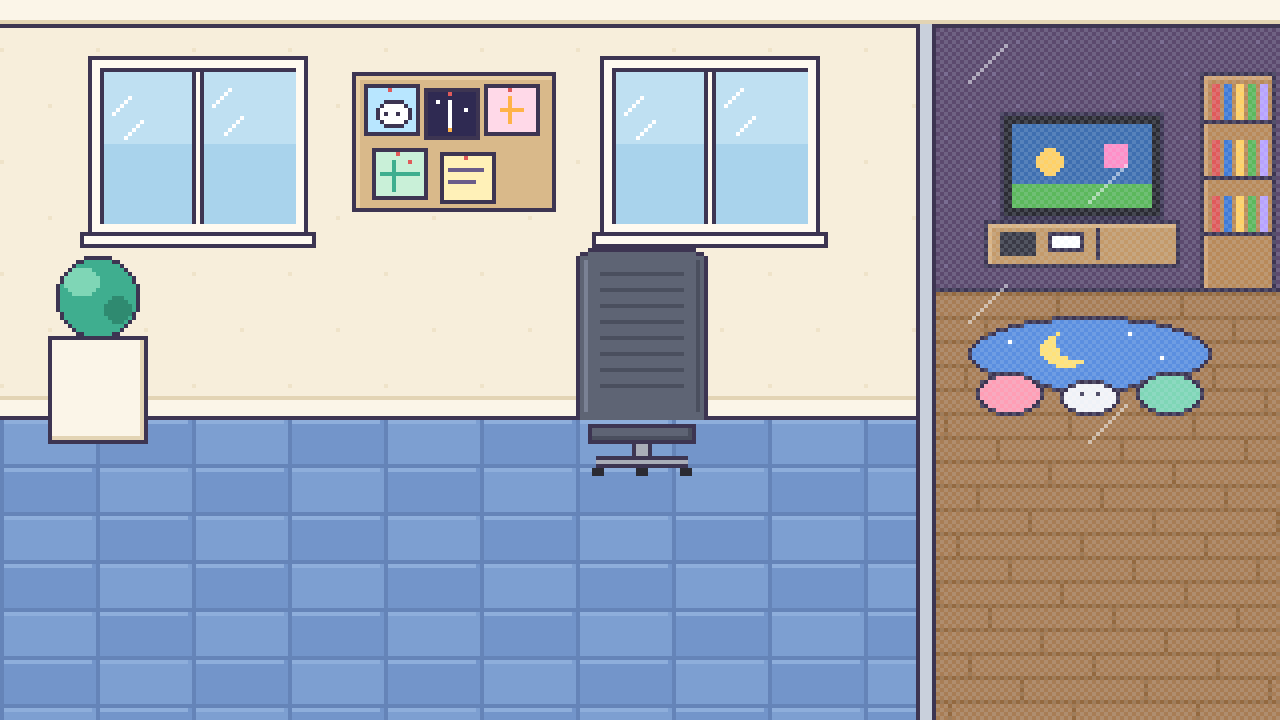
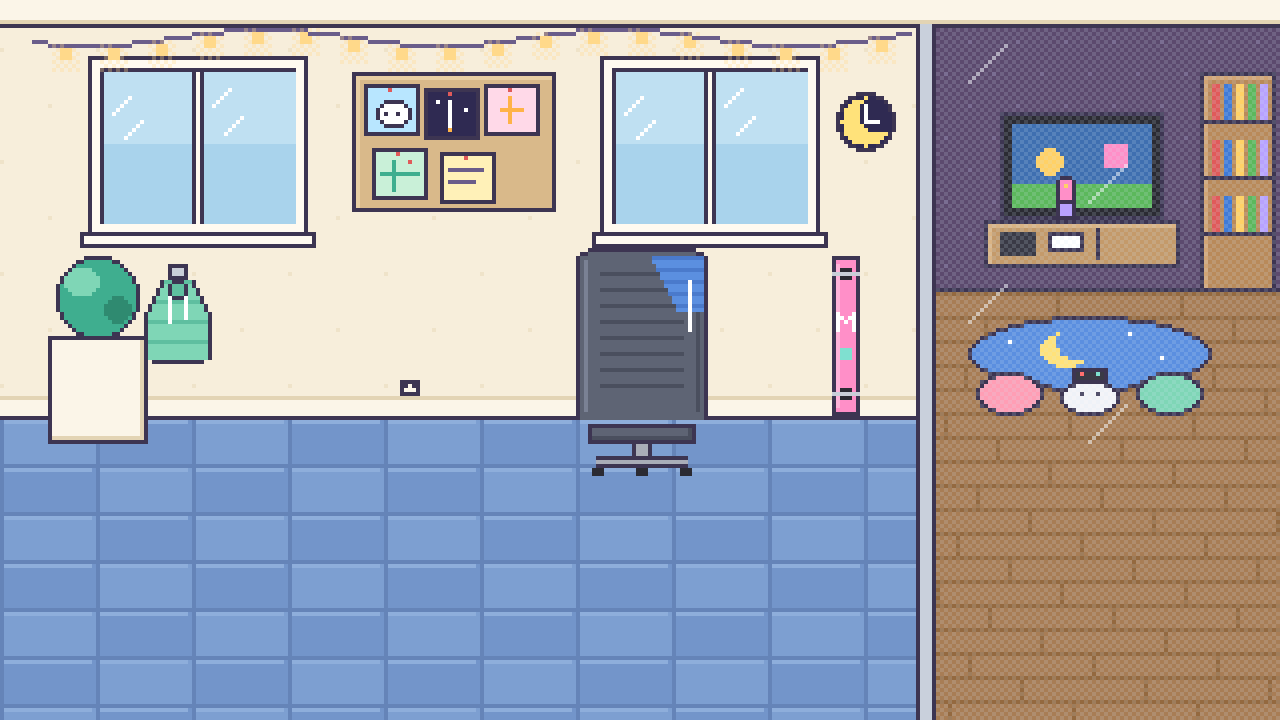
More close-up details in both bosses' offices; no printer in Margaux's office
Claude-Session: https://claude.ai/code/session_01HK9rM49NQkrfrGgA2eeo1G

diff --git a/tools/draw_meet.py b/tools/draw_meet.py
@@ -85,9 +85,24 @@ def stitchlight():
         if w > 12: b.hl(x + 2, x + w - 4, y + h - 3, hx('ffffff'))
     for x in (124, 140, 156, 172, 188): b.px(x + 3, 16, hx('d64545'))
     # left: printer on a white cabinet, the camera on its tripod, the tall vase of white lilies
-    b.box(14, 82, 40, FLOOR + 6, hx('ffffff'), OL, None, hx('e6e6ee')); b.hl(17, 37, 92, OL); b.hl(25, 31, 87, hx('b9b9c6')); b.hl(25, 31, 97, hx('b9b9c6'))
-    b.box(15, 70, 39, 81, hx('e9e9f0'), OL, hx('ffffff')); b.rect(18, 66, 36, 70, hx('ffffff')); b.box(18, 66, 36, 70, hx('ffffff'), OL); b.rect(20, 74, 34, 76, hx('3a3a46')); b.px(36, 73, hx('7fd18a'))
-    for k in range(3): b.hl(21, 33, 67 + k, hx('d7d7e0')) if k == 1 else None
+    # a dress form by the glass wall, a half-finished dress pinned to it, a tape measure round its neck
+    DX = 27
+    b.box(DX - 7, FLOOR + 8, DX + 7, FLOOR + 10, hx('3a3a46'), OL); b.vl(DX, 92, FLOOR + 7, hx('8a6a4a')); b.vl(DX + 1, 92, FLOOR + 7, OL)
+    b.rect(DX - 1, 62, DX + 1, 64, hx('8a6a4a')); b.ellipse(DX, 61, 2, 1, hx('8a6a4a'), OL)
+    for i in range(28):                                  # the torso, with a waist
+        y = 65 + i; half = [7, 8, 8, 8, 8, 7, 7, 6, 6, 5, 5, 5, 6, 6, 7, 7, 8, 8, 9, 9, 10, 10, 11, 11, 12, 12, 12, 12][i]
+        c = hx('f1e4cc') if i < 9 else hx('f4a9b8') if i < 13 else hx('f7bfc9')
+        b.hl(DX - half, DX + half, y, c); b.px(DX - half - 1, y, OL); b.px(DX + half + 1, y, OL)
+        if i >= 13 and i % 4 == 1: b.px(DX - half + 2 + (i % 3), y, hx('e58a9c')); b.px(DX + half - 3, y, hx('e58a9c'))
+    b.hl(DX - 12, DX + 12, 93, OL)
+    b.hl(DX - 8, DX + 8, 74, hx('e58a9c')); b.hl(DX - 6, DX + 6, 75, hx('fbe0e5'))          # the bodice's edge
+    for k in range(7): b.px(DX - 6 + k, 66 + (k % 2), hx('f2d07a'))                       # tape measure
+    b.vl(DX - 7, 67, 80, hx('f2d07a')); b.vl(DX + 6, 67, 76, hx('f2d07a'))
+    for (px_, py_) in [(DX - 4, 78), (DX + 3, 81), (DX - 1, 84)]: b.px(px_, py_, hx('d64545'))   # pins
+    # a wall clock and a light switch on the left wall
+    b.ellipse(21, 30, 6, 6, hx('ffffff'), OL); b.vl(21, 26, 30, OL); b.hl(21, 24, 30, OL); b.px(21, 25, hx('d64545'))
+    for (cx_, cy_) in [(21, 25), (26, 30), (21, 35), (16, 30)]: b.px(cx_, cy_, hx('b9b9c6'))
+    b.box(14, 62, 17, 68, hx('ffffff'), OL); b.px(15, 64, hx('b9b9c6'))
     TX, TY = 52, 70                                                      # tripod + camera
     b.box(TX - 7, TY, TX + 7, TY + 8, hx('2b2b33'), OL); b.ellipse(TX + 2, TY + 4, 3, 3, hx('5a5a6a'), OL); b.px(TX + 1, TY + 3, hx('bfe0f2')); b.box(TX - 5, TY - 3, TX - 1, TY, hx('2b2b33'), OL)
     for (dx, x1) in [(-1, TX - 9), (0, TX), (1, TX + 9)]:
@@ -121,10 +136,39 @@ def stitchlight():
     b.box(246, 82, 256, 108, SG, OL, SGH); b.box(250, 92, 319, 98, SG, OL, SGH)
     for x in (256, 314): b.rect(x, 107, x + 2, 110, hx('2b2b33'))
     b.box(268, 80, 278, 88, hx('f4c9c4'), OL); b.box(296, 79, 306, 88, hx('e8e8f0'), OL)
+    # small things the map is too far away to show
+    b.box(98, 95, 102, 98, hx('ffffff'), OL); b.px(99, 96, OL); b.px(101, 96, OL)             # a socket
+    b.rect(212, 8, 226, 10, hx('dcdce6')); b.hl(212, 226, 8, OL); b.hl(212, 226, 10, OL)
+    for x in range(214, 226, 2): b.px(x, 9, hx('b9b9c6'))                                    # an air vent
+    b.rect(37, 17, 89, 27, hx('f6efe2')); b.hl(37, 89, 27, hx('d9cdb8')); b.hl(37, 89, 28, OL)   # a roller blind, half down
+    for y in range(19, 27, 2): b.hl(38, 88, y, hx('efe6d4'))
+    b.vl(86, 29, 40, hx('b9b9c6')); b.ellipse(86, 41, 1, 1, hx('d9cdb8'), OL)
+    b.box(256, 53, 262, 59, hx('ffffff'), OL); b.vl(259, 44, 52, hx('6f9b5c'))               # an orchid on the right sill
+    for (fx, fy) in [(256, 45), (261, 47), (258, 49)]: b.ellipse(fx, fy, 1, 1, hx('e9a6d4'), OL)
+    b.box(296, 16, 314, 40, hx('d9b052'), OL); b.rect(298, 18, 312, 38, hx('fffaf0'))         # a framed award
+    b.hl(300, 310, 21, hx('3a3a46')); b.hl(301, 309, 24, hx('b9b9c6')); b.hl(301, 309, 26, hx('b9b9c6')); b.ellipse(305, 32, 3, 3, hx('d9b052'), OL); b.px(304, 36, hx('d64545')); b.px(306, 36, hx('d64545'))
+    # an arc floor lamp over the sofa
+    b.vl(304, 56, 110, hx('3a3a46')); b.vl(305, 56, 110, hx('5a5a6a'))
+    for i in range(41):
+        t_ = i / 40; x = round(304 - 20 * t_); y = round(56 - 12 * math.sin(math.pi * t_ * 0.9)); b.px(x, y, hx('3a3a46')); b.px(x, y + 1, hx('5a5a6a'))
+    b.vl(284, 46, 50, hx('3a3a46'))
+    for i in range(6): b.hl(284 - 2 - i, 284 + 2 + i, 51 + i, hx('fff1d2') if i < 5 else hx('f2d9a8'))
+    b.hl(282, 286, 50, OL); b.hl(277, 291, 57, OL)
+    for i in range(6): b.px(284 - 3 - i, 51 + i, OL); b.px(284 + 3 + i, 51 + i, OL)
+    b.dither(274, 58, 294, 70, (255, 240, 200, 90))
+    b.box(298, 110, 310, 112, hx('3a3a46'), OL)
+    # a blush throw over the sofa's arm, a magazine on the seat, shopping bags on the floor
+    b.box(246, 82, 256, 100, hx('f4c9c4'), OL, hx('fbe3e1')); b.vl(251, 84, 99, hx('e8a9ae'))
+    for x in range(247, 256, 2): b.px(x, 101, hx('f4c9c4'))
+    b.box(284, 92, 298, 95, hx('ffffff'), OL); b.rect(286, 93, 290, 94, hx('e05a5a')); b.hl(291, 296, 93, hx('3a3a46'))
+    b.box(262, 104, 274, 118, hx('f4a9b8'), OL, hx('fbd0da')); b.text(264, 108, 'S', hx('ffffff')); b.px(265, 102, OL); b.px(266, 101, OL); b.px(270, 101, OL); b.px(271, 102, OL)
+    b.box(276, 106, 286, 118, hx('2b2b33'), OL); b.hl(278, 284, 110, hx('d9b052')); b.px(278, 104, OL); b.px(279, 103, OL); b.px(283, 103, OL); b.px(284, 104, OL)
     # Margaux's chair (dark grey, tufted, a high back) and its seat and base behind the glass desk
     CG = hx('4f4f60'); CGD = hx('3c3c4c'); CGH = hx('6a6a7e')
     office_chair_back(b, 144, 176, 62, 104, CG, CGD, CGH, OL, CGD)
     chair_base(b, 160, 106, 117, CG, CGD, OL, hx('a9adb8'))
+    for i in range(12): b.hl(145, 145 + max(2, 9 - i // 2), 63 + i, hx('e9d9bd') if i % 3 else hx('dcc8a6'))   # her cardigan over the chair
+    b.vl(145, 63, 74, OL)
     b.save(OUT + 'meet_stitchlight_back.png')
 
     d = Pic(W, H)
@@ -143,6 +187,14 @@ def stitchlight():
     d.ellipse(186, DESK_TOP - 2, 3, 1, hx('2b2b33')); d.ellipse(193, DESK_TOP - 2, 3, 1, hx('2b2b33')); d.hl(189, 190, DESK_TOP - 3, hx('2b2b33'))
     d.box(196, DESK_TOP - 3, 214, DESK_TOP - 1, hx('f2e6d6'), OL); d.hl(198, 212, DESK_TOP - 2, hx('e8798a')); d.hl(200, 214, DESK_TOP - 4, hx('3a3a46'))
     d.box(176, 96, 181, DESK_TOP - 1, hx('ffffff'), OL); d.hl(177, 180, 97, hx('7a4a2e')); d.px(182, 98, OL); d.px(182, 100, OL); d.px(183, 99, OL)
+    d.ellipse(178, 95, 1, 0, hx('e8798a'))                                                    # lipstick on the cup
+    d.vl(205, DESK_TOP - 6, DESK_TOP - 5, hx('d64545')); d.px(206, DESK_TOP - 7, hx('d64545'))  # a red pen on the notebook
+    for i, c in enumerate(['e8798a', 'f2d07a', '9ab89a', 'c7d9e8']):                         # a fanned swatch book
+        d.box(150 + i * 2, DESK_TOP - 3 - i, 156 + i * 2, DESK_TOP - 1, hx(c), OL)
+    d.box(140, DESK_TOP - 3, 146, DESK_TOP - 1, hx('ffffff'), OL); d.hl(141, 145, DESK_TOP - 2, hx('3a3a46'))   # her phone
+    # under the desk: a wastepaper basket with a few crumpled drafts
+    d.box(190, 116, 202, 128, hx('d9d9e2'), OL, hx('f0f0f5')); d.ellipse(193, 115, 2, 2, hx('ffffff'), OL); d.ellipse(198, 114, 2, 2, hx('fff4d6'), OL)
+    d.ellipse(186, 128, 2, 1, hx('ffffff'), OL)
     d.save(OUT + 'meet_stitchlight_desk.png')
 
     c = Pic(W, H)
@@ -196,11 +248,34 @@ def moonpuff():
     b.dither(GX + 2, 7, W - 1, H - 1, (210, 230, 245, 40))
     # a second desk chair at the long desk (left, empty), a plant, the printer stand
     b.box(12, 84, 36, FLOOR + 6, hx('fbf5e8'), OL, None, hx('e3d4b4')); b.ellipse(24, 74, 10, 10, hx('3fae8f'), OL); b.ellipse(20, 70, 4, 3, hx('7fd6b6')); b.ellipse(29, 77, 3, 3, hx('2f8a70'))
+    # small things the map doesn't show: a moon clock, a skateboard against the wall, warm string lights, a backpack,
+    # a hoodie on a hook, a cable tidy, a socket, and in the games room a lava lamp and a controller on a bean bag
+    b.ellipse(216, 30, 7, 7, hx('2f2a52'), OL)
+    for y in range(24, 37):
+        for x in range(210, 223):
+            if (x - 216) ** 2 + (y - 30) ** 2 <= 36 and (x - 219) ** 2 + (y - 28) ** 2 > 20: b.px(x, y, hx('ffe27a'))
+    b.vl(216, 26, 30, hx('ffffff')); b.hl(216, 219, 30, hx('ffffff'))
+    for x in range(8, 228):
+        y = 9 + round(2 * math.sin(x / 14))
+        b.px(x, y, hx('6a5d8a'))
+        if x % 12 == 4: b.rect(x - 1, y + 1, x + 1, y + 3, hx('ffd98a')); b.dither(x - 3, y, x + 3, y + 6, (255, 217, 138, 80))
+    b.box(208, 64, 214, 103, hx('ff8fc8'), OL); b.vl(209, 66, 101, hx('ffb3d9'))           # skateboard
+    for y in (68, 98): b.ellipse(211, y, 2, 1, hx('2b2b33')); b.hl(208, 214, y, hx('c9ced8'))
+    b.text(209, 78, 'M', hx('ffffff')); b.ellipse(211, 88, 1, 1, hx('7fe0d0'))
+    b.box(42, 66, 46, 69, hx('c9ced8'), OL)                                                # a hook with a hoodie
+    for i in range(20):
+        half = 3 + min(i, 8) // 2; b.hl(44 - half, 44 + half, 70 + i, hx('7fd6b6') if i % 5 else hx('5fbfa0')); b.px(44 - half - 1, 70 + i, OL); b.px(44 + half + 1, 70 + i, OL)
+    b.hl(38, 50, 90, OL); b.ellipse(44, 72, 2, 2, hx('5fbfa0'), OL); b.vl(42, 74, 80, hx('ffffff')); b.vl(46, 74, 79, hx('ffffff'))
+    b.box(100, 95, 104, 98, hx('fbf5e8'), OL); b.px(101, 96, OL); b.px(103, 96, OL)          # a socket
+    b.box(264, 50, 268, 54, hx('b8a2ff'), OL); b.ellipse(266, 47, 2, 3, hx('ff8fc8'), OL); b.px(266, 46, hx('ffd166'))   # lava lamp on the TV stand
+    b.box(268, 92, 276, 95, hx('3a3a46'), OL); b.px(270, 93, hx('ff6f6f')); b.px(274, 93, hx('7fe0d0'))   # a controller on the bean bag
     # Rio's chair: the same grey office chair as on the map
     CG = hx('5e6474'); CGD = hx('4a4f5e'); CGH = hx('7a8194')
     office_chair_back(b, 144, 176, 62, 104, CG, CGD, CGH, OL, None)
     for y in range(68, 100, 4): b.hl(150, 170, y, CGD)                  # mesh back
     chair_base(b, 160, 106, 117, CG, CGD, OL, hx('a9adb8'))
+    for i in range(14): b.hl(171 - max(2, 8 - i // 2), 175, 64 + i, hx('5b8fe0') if i % 3 else hx('4a7acc'))   # his hoodie over the chair
+    b.vl(176, 64, 77, OL); b.vl(172, 70, 82, hx('ffffff'))
     b.save(OUT + 'meet_moonpuff_back.png')
 
     d = Pic(W, H)
@@ -221,6 +296,22 @@ def moonpuff():
     def mug(x, y, c, cd):
         d.box(x, y, x + 7, y + 7, c, OL); d.vl(x + 6, y + 1, y + 6, cd); d.hl(x + 1, x + 6, y + 1, hx('6b3e2a'))
         d.px(x + 8, y + 2, OL); d.px(x + 9, y + 3, OL); d.px(x + 9, y + 4, OL); d.px(x + 8, y + 5, OL)
+    # headphones resting on the monitor, sticky notes on its back
+    for x in range(119, 142):
+        y = 80 - round(3 * math.sqrt(max(0, 1 - ((x - 130.5) / 11.5) ** 2))); d.px(x, y, hx('2b2b33'))
+    d.box(117, 81, 121, 88, hx('ff8fc8'), OL); d.box(139, 81, 143, 88, hx('ff8fc8'), OL)
+    d.box(123, 90, 127, 93, hx('ffe066'), OL); d.box(133, 84, 137, 87, hx('9ae6d8'), OL)
+    # a game controller, a can of fizzy drink, a bag of crisps, stickers on the desk front, a backpack on the floor
+    d.box(108, DESK_TOP - 3, 117, DESK_TOP - 1, hx('3a3a46'), OL); d.px(110, DESK_TOP - 2, hx('ff6f6f')); d.px(115, DESK_TOP - 2, hx('7fe0d0'))
+    d.box(212, DESK_TOP - 8, 216, DESK_TOP - 1, hx('7fd6b6'), OL, hx('c9f0e4')); d.hl(213, 215, DESK_TOP - 5, hx('ffffff'))
+    d.box(219, DESK_TOP - 10, 228, DESK_TOP - 1, hx('ffd166'), OL); d.hl(219, 228, DESK_TOP - 10, hx('e0ad3c')); d.ellipse(223, DESK_TOP - 5, 2, 2, hx('ff6f6f'))
+    d.ellipse(118, 116, 4, 4, hx('ffffff'), OL); d.px(116, 115, OL); d.px(120, 115, OL); d.hl(117, 119, 118, hx('ff8fc8'))
+    d.box(140, 112, 154, 120, hx('3f3355'), OL); d.text(141, 114, 'GG', hx('7fe0d0'))
+    for k in range(5):
+        ang = math.radians(k * 72 - 90); d.px(176 + round(5 * math.cos(ang)), 116 + round(5 * math.sin(ang)), hx('ffd166'))
+    d.ellipse(176, 116, 3, 3, hx('ffd166'), OL)
+    d.box(36, 106, 54, 128, hx('3f5fa8'), OL, hx('5b7fc8')); d.box(39, 116, 51, 126, hx('35508f'), OL)   # backpack
+    d.vl(36, 108, 122, hx('2b2b33')); d.ellipse(45, 120, 2, 2, hx('ffd166')); d.box(41, 109, 46, 113, hx('ff8fc8'), OL)
     mug(180, DESK_TOP - 9, hx('7fe0d0'), hx('5cbfb0'))     # Rio's
     mug(146, DESK_TOP - 9, hx('ffd166'), hx('e0ad3c'))     # yours
     d.save(OUT + 'meet_moonpuff_desk.png')
